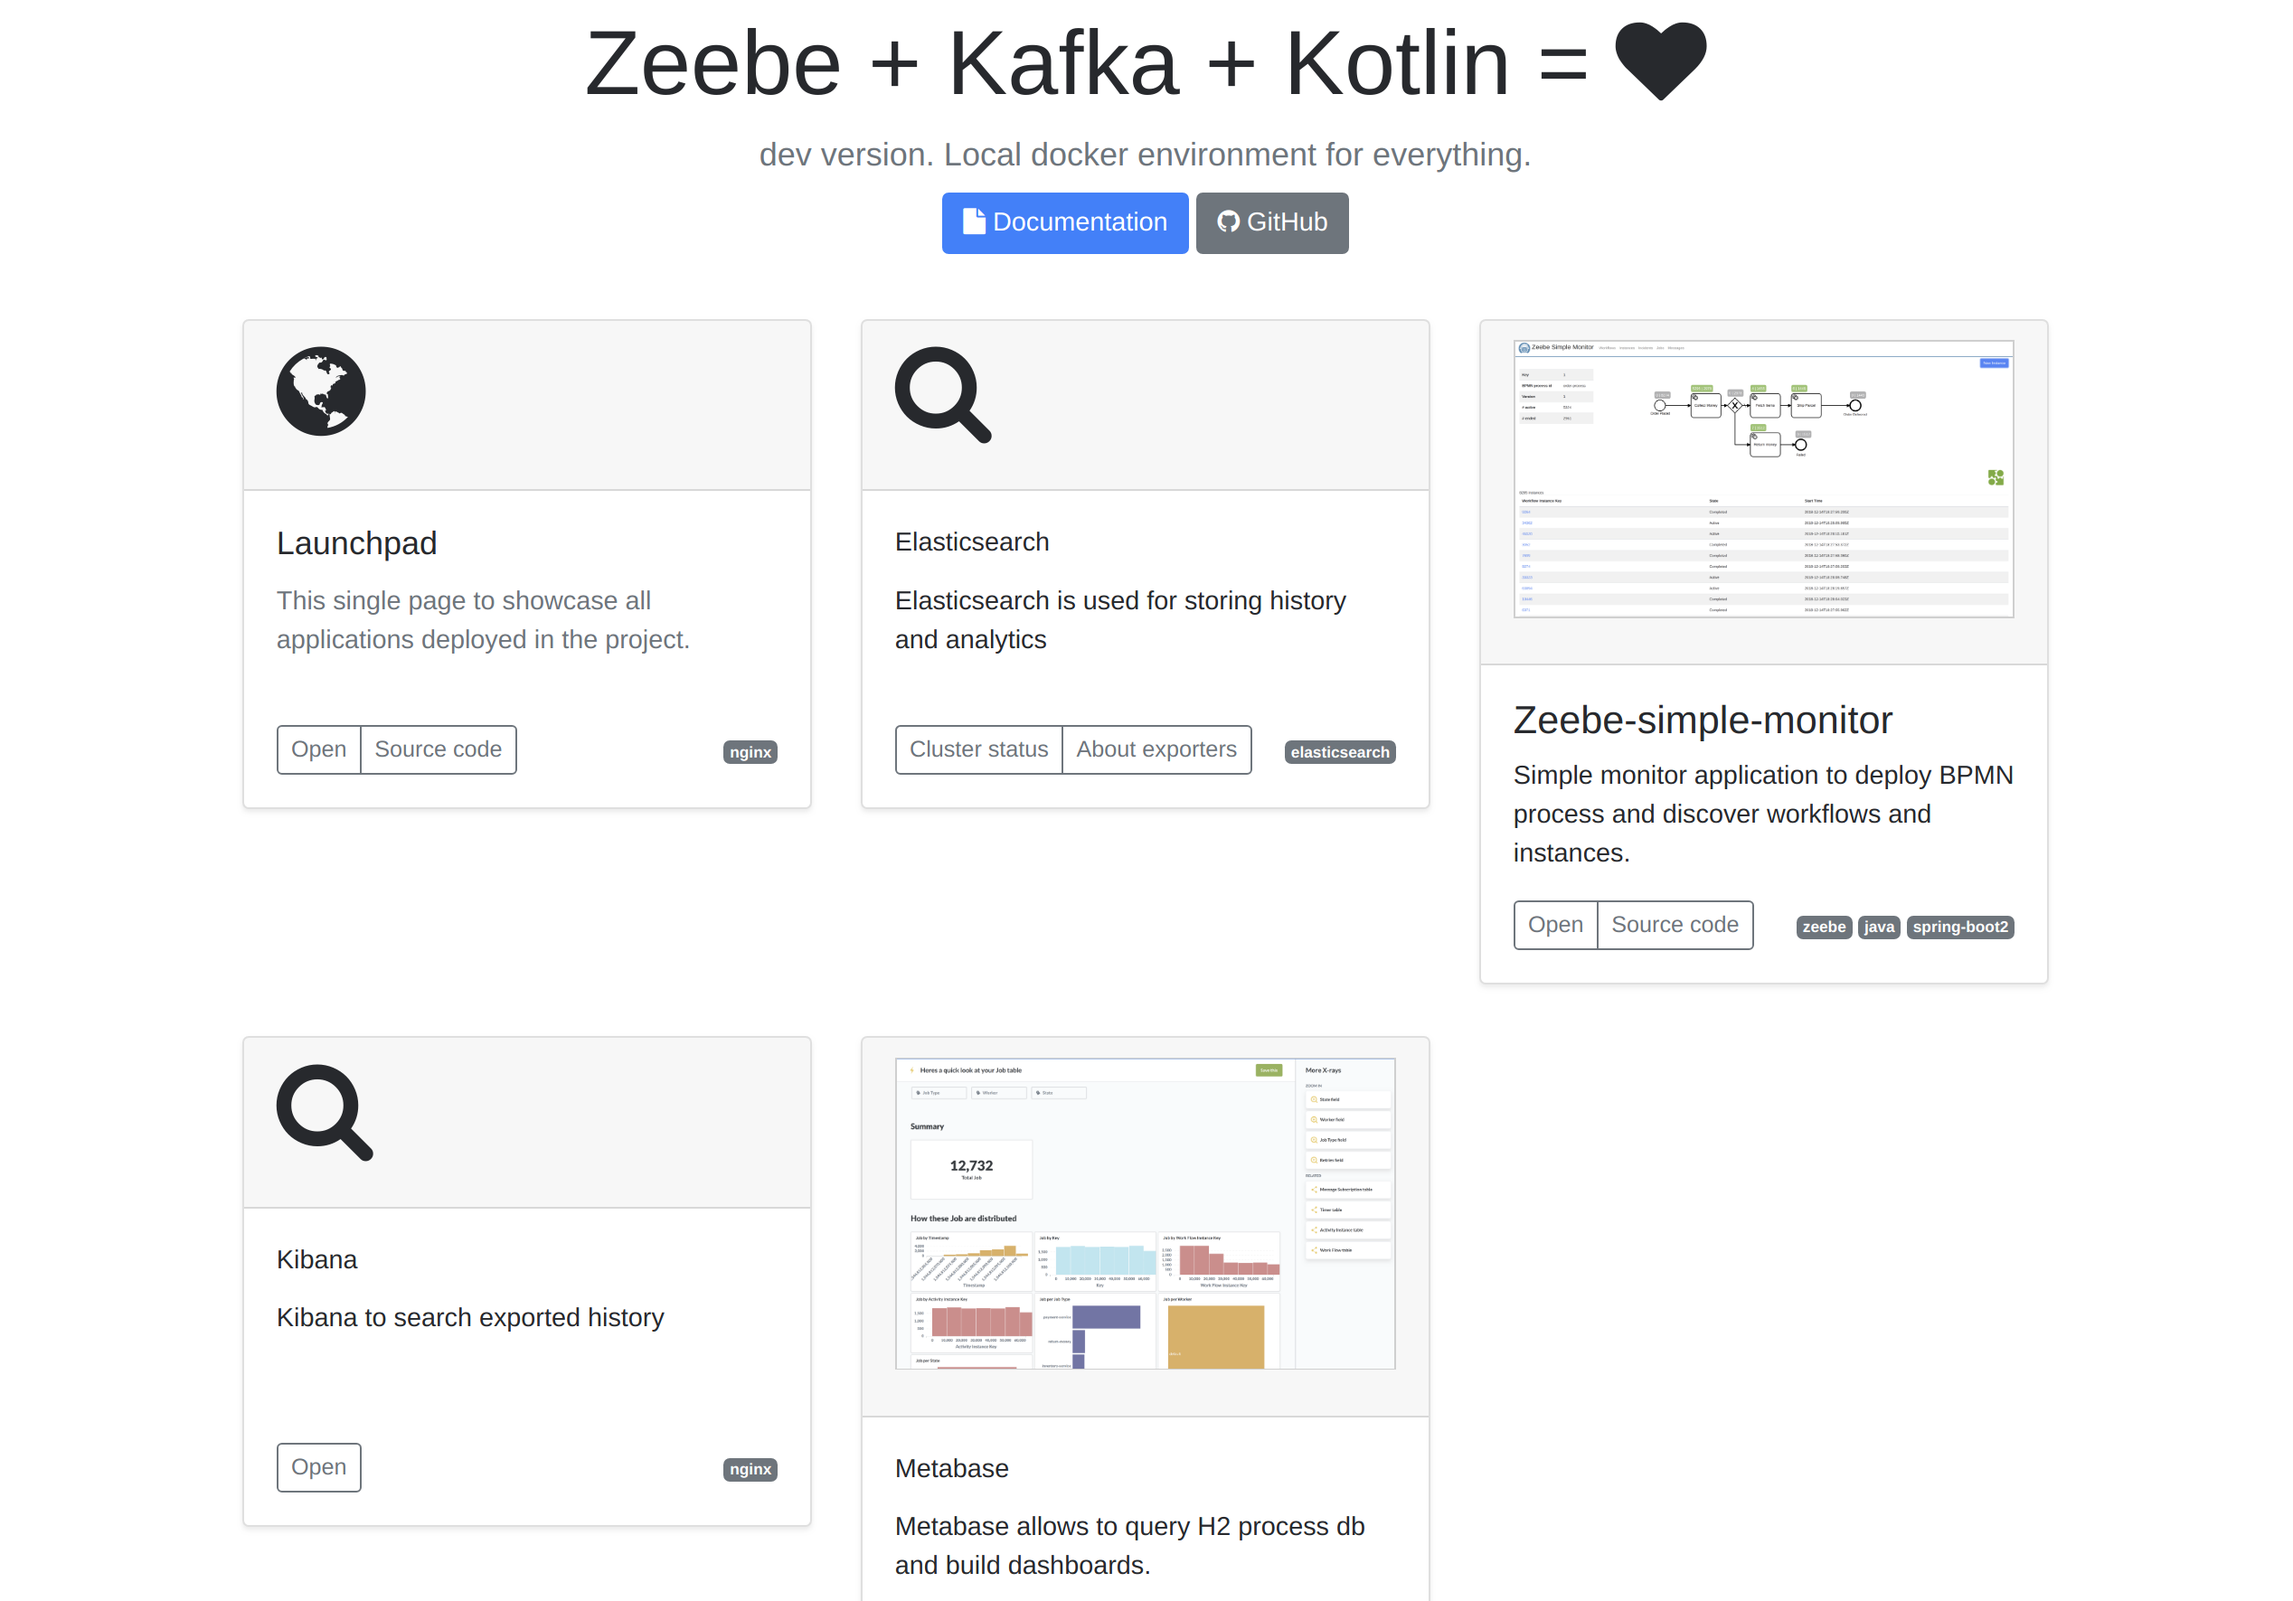
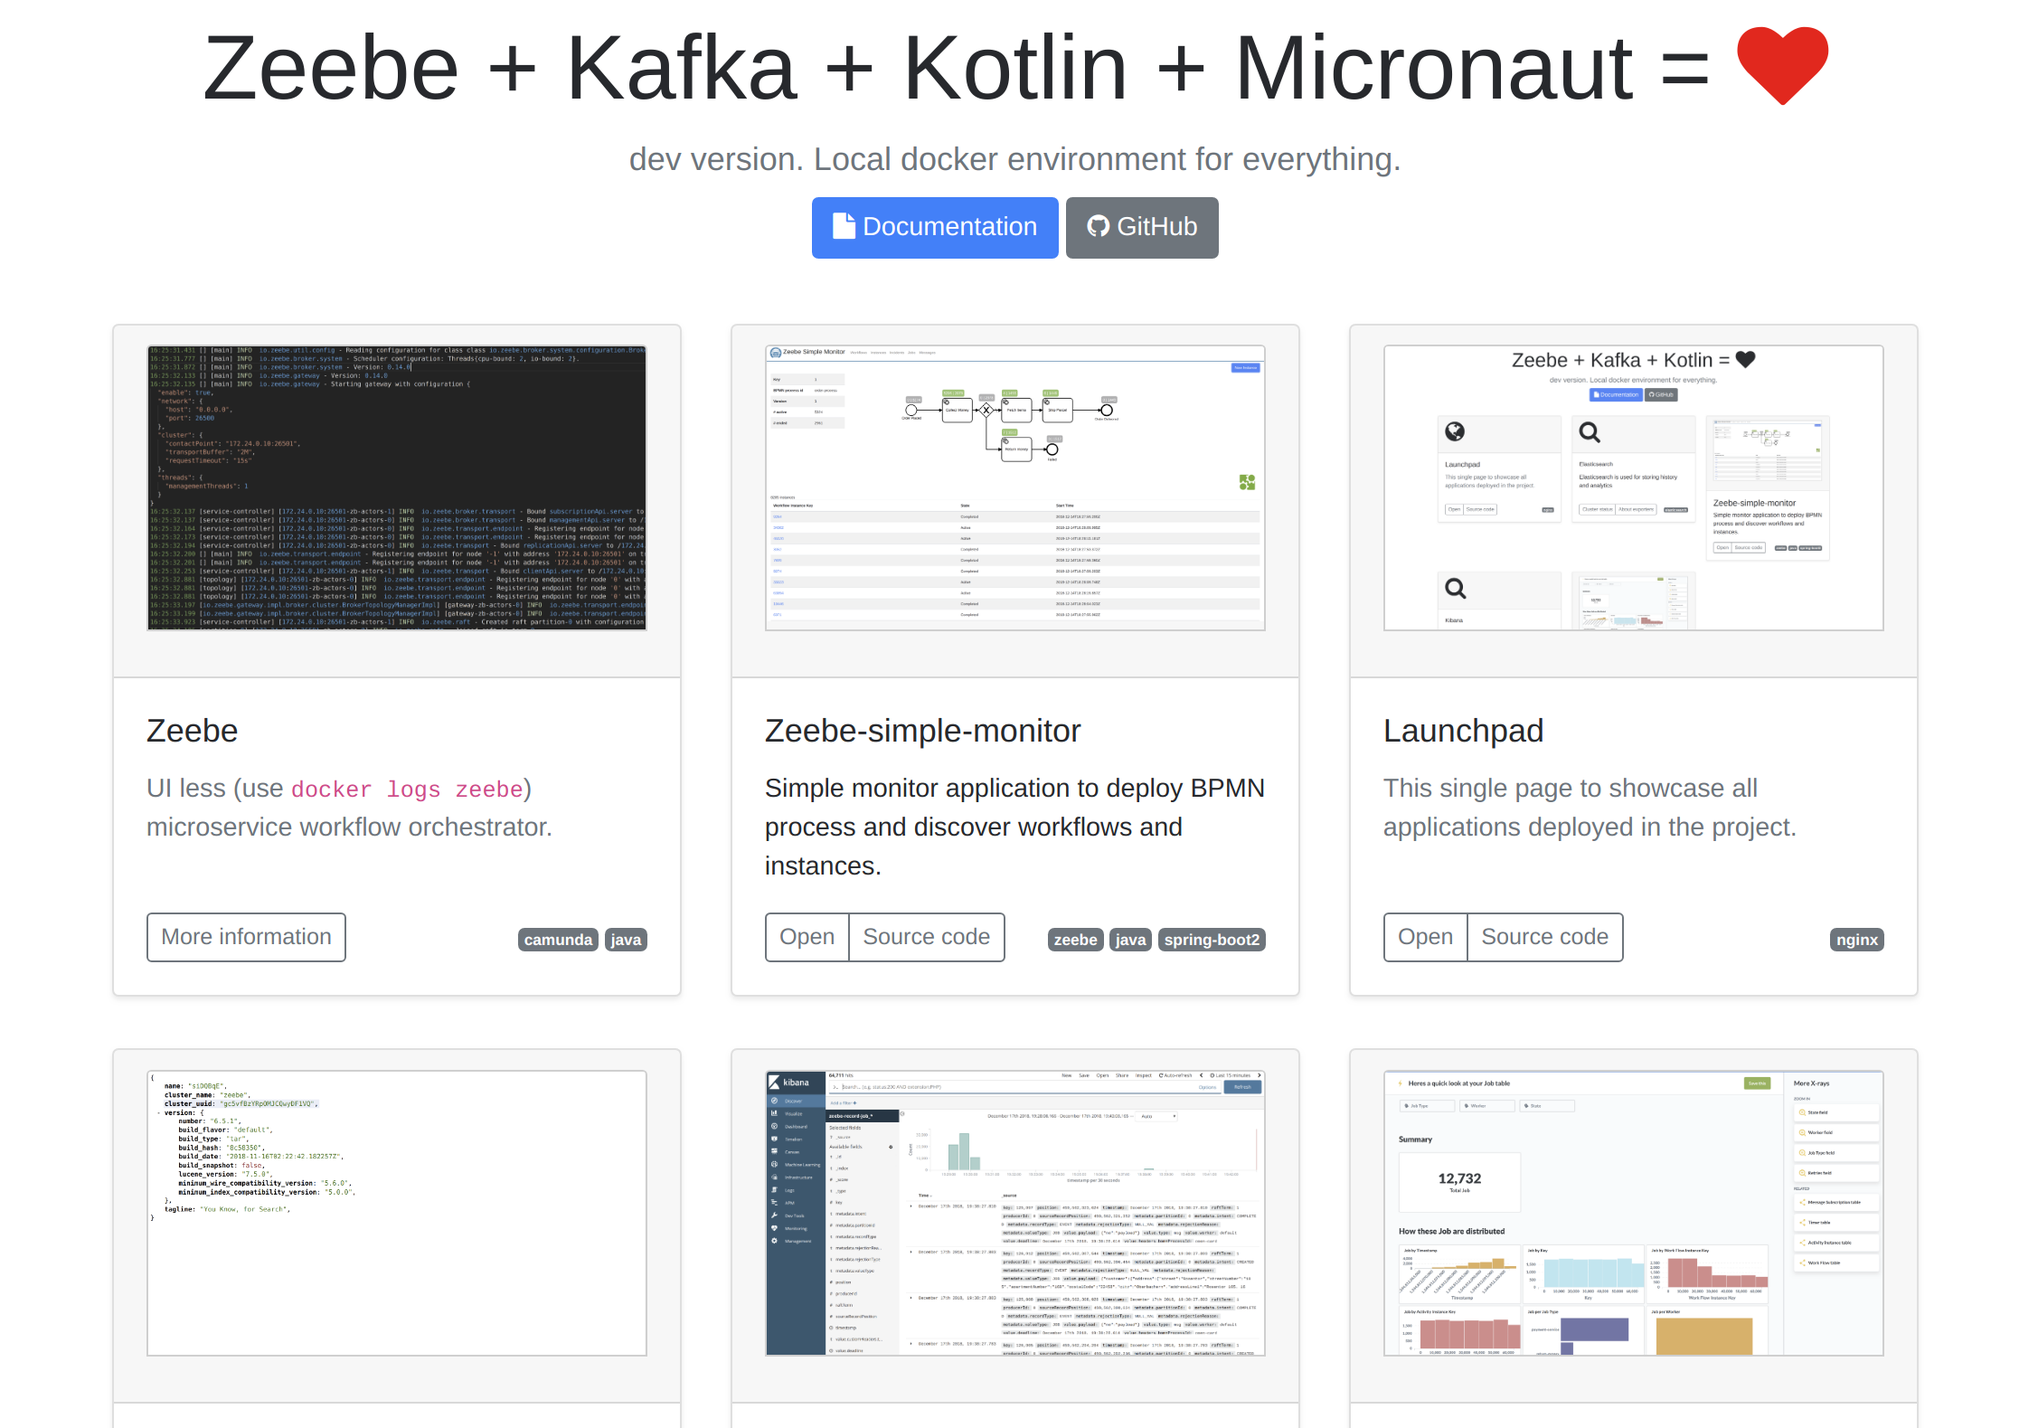
Improved launchpad

diff --git a/launchpad/index.html b/launchpad/index.html
@@ -5,8 +5,8 @@
   <meta http-equiv="X-UA-Compatible" content="IE=edge">
   <meta name="viewport" content="width=device-width, initial-scale=1">
   <title>Launchpad</title>
-  <link rel="stylesheet" type="text/css" href="https://stackpath.bootstrapcdn.com/bootstrap/4.1.3/css/bootstrap.min.css" />
-  <link rel="stylesheet" type="text/css" href="https://stackpath.bootstrapcdn.com/font-awesome/4.7.0/css/font-awesome.min.css" />
+  <link rel="stylesheet" type="text/css" href="https://stackpath.bootstrapcdn.com/bootstrap/4.1.3/css/bootstrap.min.css"/>
+  <link rel="stylesheet" type="text/css" href="https://stackpath.bootstrapcdn.com/font-awesome/4.7.0/css/font-awesome.min.css"/>
   <style type="text/css">
     .card-body .card-text {
       height: 4.5em;
@@ -22,152 +22,187 @@
     .card-header .card-img-top img {
       width: 100%;
     }
+
+    i.fa-heart {
+      color: red;
+    }
   </style>
 </head>
 
 <body>
-  
-  <div class="px-3 py-3 pb-md-0 mx-auto text-center">
-    <h1 class="display-4">Zeebe + Kafka + Kotlin = <i class="fa fa-heart"/></i></h1>
-    
-    <div class="lead text-muted">
-        <span data-config="versionTitle">Development</span> version. Local docker environment for everything.
-    </div>
 
-    <p>
-      <a href="#" class="btn btn-primary my-2" data-config="href:docsLink" href="about:blank" role="button"><i class="fa fa-file"></i> Documentation</a>
-      <a href="#" class="btn btn-secondary my-2" data-config="href:gitLink" href="about:blank" role="button"><i class="fa fa-github"></i> GitHub</a>
-    </p>
+<div class="px-3 py-3 pb-md-0 mx-auto text-center">
+  <h1 class="display-4">Zeebe + Kafka + Kotlin + Micronaut = <i class="fa fa-heart"/></i></h1>
+
+  <div class="lead text-muted">
+    <span data-config="versionTitle">Development</span> version. Local docker environment for everything.
   </div>
 
-  <div class="container">
-    <div class="row">
-      <div class="col-md-4 py-3">
-            <div class="card md-4 shadow-sm">
-              <div class="card-header">
-                <p class="card-img-top"><img src="launchpad.png"/></p>
-              </div>
-              <div class="card-body">
-                <h5 class="card-title">Launchpad</h5>
-                <p class="card-text text-muted">
-                  This single page to showcase all applications deployed in the project.
-                  
-                </p>
-                <div class="d-flex justify-content-between align-items-center">
-                    <div class="btn-group">
-                      <a class="btn btn-sm  btn-outline-secondary" href="http://localhost:8181">Open</a>
-                      <a class="btn btn-sm  btn-outline-secondary" href="https://github.com/huksley/zeebe-kafka-camunda/tree/master/www">Source code</a>
-                    </div>
+  <p>
+    <a href="#" class="btn btn-primary my-2" data-config="href:docsLink" href="about:blank" role="button"><i class="fa fa-file"></i>
+      Documentation</a>
+    <a href="#" class="btn btn-secondary my-2" data-config="href:gitLink" href="about:blank" role="button"><i class="fa fa-github"></i>
+      GitHub</a>
+  </p>
+</div>
 
-                    <small class="text-muted"><span class="badge badge-secondary">nginx</span></small>
-                </div>
-              </div>
+<div class="container">
+  <div class="row">
+    <div class="col-md-4 py-3">
+      <div class="card md-4 shadow-sm">
+        <div class="card-header">
+          <p class="card-img-top"><a href="https://zeebe.io"><img src="zeebe.png" style="width: 130%"/></a></p>
+        </div>
+        <div class="card-body">
+          <h5 class="card-title">Zeebe</h5>
+          <p class="card-text text-muted">
+            UI less (use <code>docker logs zeebe</code>) microservice workflow orchestrator.
+          </p>
+          <div class="d-flex justify-content-between align-items-center">
+            <div class="btn-group">
+              <a class="btn btn-sm  btn-outline-secondary"
+                 href="https://zeebe.io">More information</a>
             </div>
+
+            <small class="text-muted">
+              <span class="badge badge-secondary">camunda</span>
+              <span class="badge badge-secondary">java</span>
+            </small>
           </div>
-      <div class="col-md-4 py-3">
-            <div class="card md-4 shadow-sm">
-              <div class="card-header">
-                <p class="card-img-top"><i class="fa fa-search fa-4x"></i></p>
-              </div>
-              <div class="card-body">
-                <div class="card-title">Elasticsearch</div>
-                <p class="card-text">
-                  Elasticsearch is used for storing history and analytics
-                </p>
-                <div class="d-flex justify-content-between align-items-center">
-                    <div class="btn-group">
-                      <a class="btn btn-sm  btn-outline-secondary" href="http://localhost:9200">Cluster status</a>
-                      <a class="btn btn-sm  btn-outline-secondary" href="https://docs.zeebe.io/basics/exporters.html">About exporters</a>
-                    </div>
-                    <small class="text-muted"><span class="badge badge-secondary">elasticsearch</span></small>
-                </div>
-              </div>
-            </div>
-      </div>
-      <div class="col-md-4 py-3">
-
-            <div class="card md-4 shadow-sm">
-              <div class="card-header">
-                <p class="card-img-top"><img src="simple-monitor.png"/></p>
-              </div>
-              <div class="card-body">
-                <h4>Zeebe-simple-monitor</h4>
-                <p class="card-text">
-                  Simple monitor application to deploy BPMN process and discover workflows and instances.
-                  
-                </p>
-                <div class="d-flex justify-content-between align-items-center">
-                    <div class="btn-group">
-                      <a class="btn btn-sm  btn-outline-secondary" href="http://localhost:8182">Open</a>
-                      <a class="btn btn-sm  btn-outline-secondary" href="https://github.com/zeebe-io/zeebe-simple-monitor">Source code</a>
-                    </div>
-                    <small class="text-muted">
-                    <span class="badge badge-secondary">zeebe</span>
-                    <span class="badge badge-secondary">java</span>
-                    <span class="badge badge-secondary">spring-boot2</span>
-                    </small>
-                </div>
-              </div>
-            </div>
-      </div>
-
-          <div class="col-md-4 py-3">
-            <div class="card md-4 shadow-sm">
-              <div class="card-header">
-                <p class="card-img-top"><i class="fa fa-search fa-4x"></i></p>
-              </div>
-              <div class="card-body">
-                <div class="card-title">Kibana</div>
-                <p class="card-text">
-                  Kibana to search exported history
-                </p>
-                <div class="d-flex justify-content-between align-items-center">
-                    <div class="btn-group">
-                      <a class="btn btn-sm  btn-outline-secondary" href="http://localhost:8184">Open</a>
-                    </div>
-                    <small class="text-muted">
-                        <span class="badge badge-secondary">nginx</span>
-                    </small>
-                </div>
-              </div>
-            </div>
-          </div>
-
-          <div class="col-md-4 py-3">
-            <div class="card md-4 shadow-sm">
-              <div class="card-header">
-                <p class="card-img-top"><img src="metabase.png"/></p>
-              </div>
-              <div class="card-body">
-                <div class="card-title">Metabase</div>
-                <p class="card-text">
-                  Metabase allows to query history database and build dashboards.
-                  
-                </p>
-                <div class="d-flex justify-content-between align-items-center">
-                    <div class="btn-group">
-                      <a class="btn btn-sm  btn-outline-secondary" href="http://localhost:8183">Open</a>
-                    </div> 
-                    <small class="text-muted">
-                        <span class="badge badge-secondary">clojure</span>
-                    </small>
-                </div>
-              </div>
-            </div>
-          </div>
+        </div>
       </div>
     </div>
 
-  <div class="px-3 py-3 pb-md-0 mx-auto text-center">
-    <div class="row">
-      <div class="col">
-        &copy; 2018 Ruslan Gainutdinov &amp; Futurice
+    <div class="col-md-4 py-3">
+      <div class="card md-4 shadow-sm">
+        <div class="card-header">
+          <p class="card-img-top"><a href="http://localhost:8182"><img src="simple-monitor.png"/></a></p>
+        </div>
+        <div class="card-body">
+          <h5 class="card-title">Zeebe-simple-monitor</h5>
+          <p class="card-text">
+            Simple monitor application to deploy BPMN process and discover workflows and instances.
+
+          </p>
+          <div class="d-flex justify-content-between align-items-center">
+            <div class="btn-group">
+              <a class="btn btn-sm  btn-outline-secondary" href="http://localhost:8182">Open</a>
+              <a class="btn btn-sm  btn-outline-secondary" href="https://github.com/zeebe-io/zeebe-simple-monitor">Source
+                code</a>
+            </div>
+            <small class="text-muted">
+              <span class="badge badge-secondary">zeebe</span>
+              <span class="badge badge-secondary">java</span>
+              <span class="badge badge-secondary">spring-boot2</span>
+            </small>
+          </div>
+        </div>
+      </div>
+    </div>
+
+    <div class="col-md-4 py-3">
+      <div class="card md-4 shadow-sm">
+        <div class="card-header">
+          <p class="card-img-top"><a href="http://localhost:8181"><img src="launchpad.png"/></a></p>
+        </div>
+        <div class="card-body">
+          <h5 class="card-title">Launchpad</h5>
+          <p class="card-text text-muted">
+            This single page to showcase all applications deployed in the project.
+
+          </p>
+          <div class="d-flex justify-content-between align-items-center">
+            <div class="btn-group">
+              <a class="btn btn-sm  btn-outline-secondary" href="http://localhost:8181">Open</a>
+              <a class="btn btn-sm  btn-outline-secondary"
+                 href="https://github.com/huksley/zeebe-kafka-camunda/tree/master/www">Source code</a>
+            </div>
+
+            <small class="text-muted"><span class="badge badge-secondary">nginx</span></small>
+          </div>
+        </div>
+      </div>
+    </div>
+
+    <div class="col-md-4 py-3">
+      <div class="card md-4 shadow-sm">
+        <div class="card-header">
+          <p class="card-img-top"><a href="http://localhost:9200"><img src="elasticsearch.png"></a></p>
+        </div>
+        <div class="card-body">
+          <h5 class="card-title">Elasticsearch</h5>
+          <p class="card-text">
+            Elasticsearch is used for storing history and analytics
+          </p>
+          <div class="d-flex justify-content-between align-items-center">
+            <div class="btn-group">
+              <a class="btn btn-sm  btn-outline-secondary" href="http://localhost:9200">Cluster status</a>
+              <a class="btn btn-sm  btn-outline-secondary" href="https://docs.zeebe.io/basics/exporters.html">About
+                exporters</a>
+            </div>
+            <small class="text-muted"><span class="badge badge-secondary">elasticsearch</span></small>
+          </div>
+        </div>
+      </div>
+    </div>
+
+    <div class="col-md-4 py-3">
+      <div class="card md-4 shadow-sm">
+        <div class="card-header">
+          <p class="card-img-top"><a href="http://localhost:8184"><img src="kibana.png"></a></p>
+        </div>
+        <div class="card-body">
+          <h5 class="card-title">Kibana</h5>
+          <p class="card-text">
+            Kibana to search exported history
+          </p>
+          <div class="d-flex justify-content-between align-items-center">
+            <div class="btn-group">
+              <a class="btn btn-sm  btn-outline-secondary" href="http://localhost:8184">Open</a>
+            </div>
+            <small class="text-muted">
+              <span class="badge badge-secondary">nginx</span>
+            </small>
+          </div>
+        </div>
+      </div>
+    </div>
+
+    <div class="col-md-4 py-3">
+      <div class="card md-4 shadow-sm">
+        <div class="card-header">
+          <p class="card-img-top"><a href="http://localhost:8183"><img src="metabase.png"/></a></p>
+        </div>
+        <div class="card-body">
+          <h5 class="card-title">Metabase</h5>
+          <p class="card-text">
+            Metabase allows to query history database and build dashboards.
+
+          </p>
+          <div class="d-flex justify-content-between align-items-center">
+            <div class="btn-group">
+              <a class="btn btn-sm  btn-outline-secondary" href="http://localhost:8183">Open</a>
+            </div>
+            <small class="text-muted">
+              <span class="badge badge-secondary">clojure</span>
+            </small>
+          </div>
+        </div>
       </div>
     </div>
   </div>
+</div>
 
-  <script src="config.js"></script>
-  <script src="launchpad.js"></script>
+<div class="px-3 py-3 pb-md-0 mx-auto text-center">
+  <div class="row">
+    <div class="col">
+      &copy; 2018 Ruslan Gainutdinov &amp; Futurice
+    </div>
+  </div>
+</div>
+
+<script src="config.js"></script>
+<script src="launchpad.js"></script>
 </body>
 
 </html>
